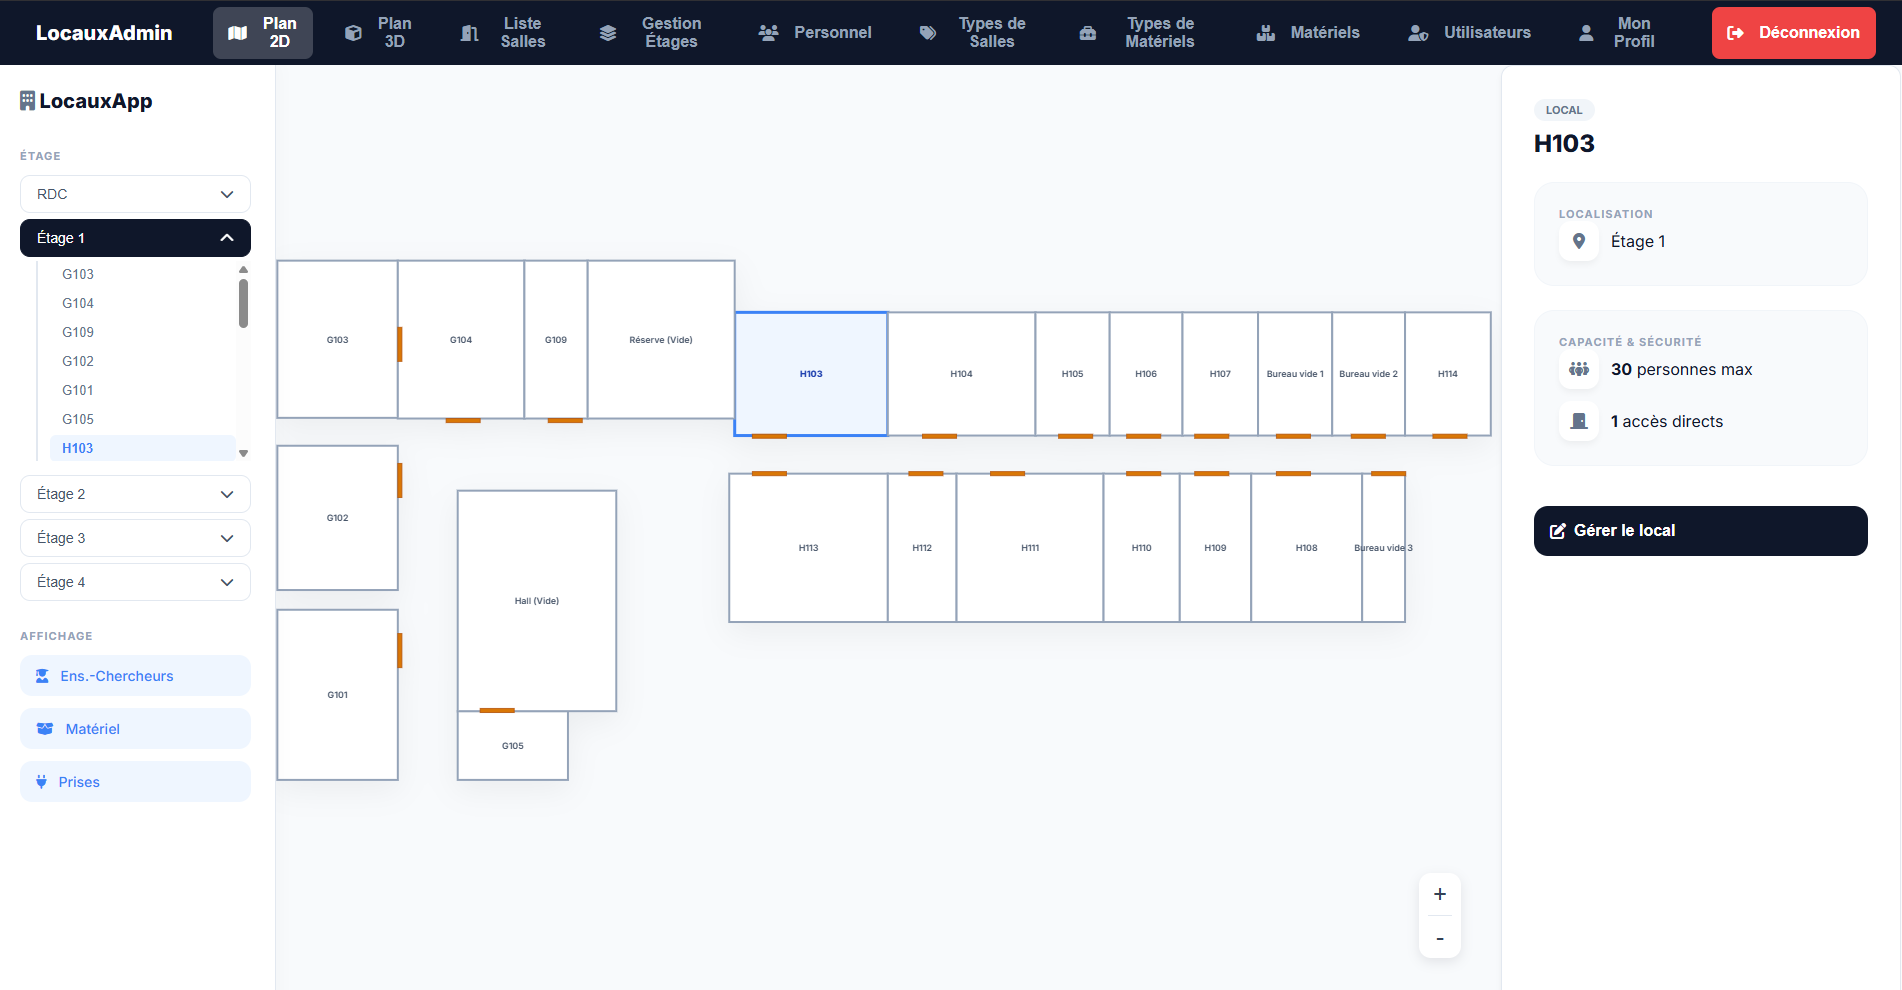
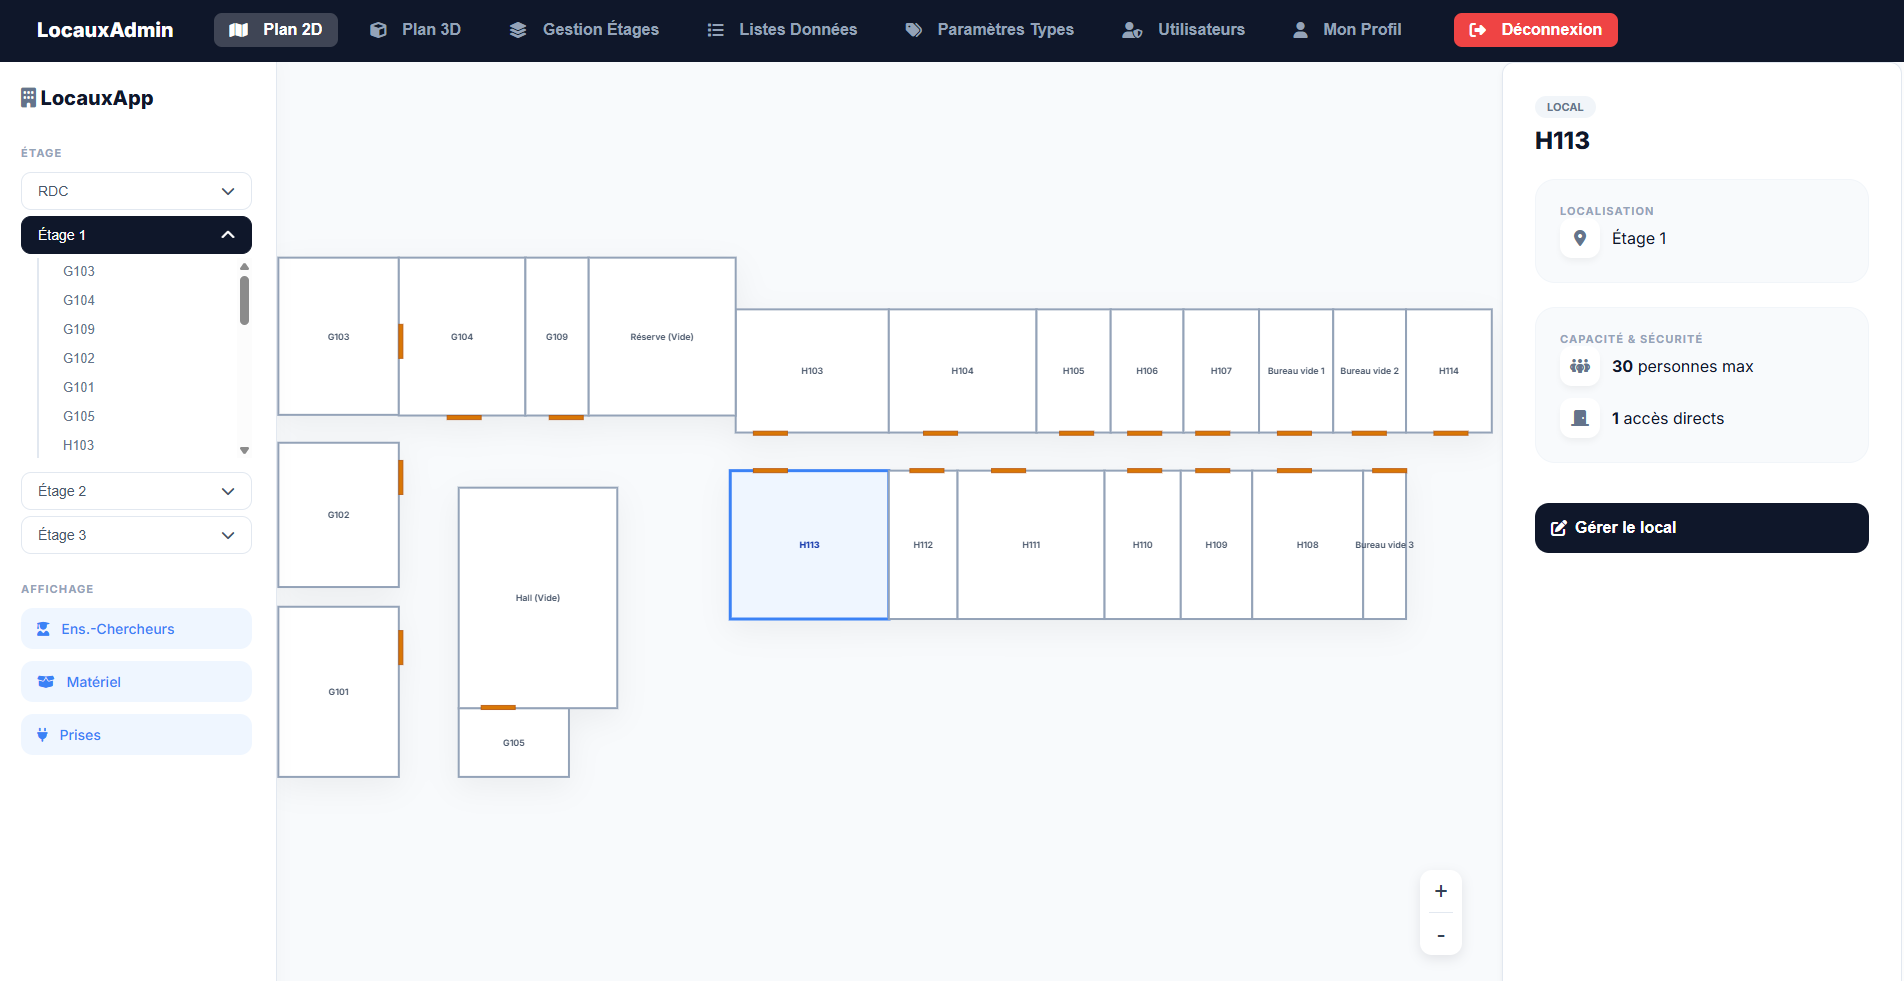
rapport v1 !!!

diff --git a/rapport/sections/04_database.tex b/rapport/sections/04_database.tex
@@ -1,6 +1,6 @@
 \chapter{Conception de la Base de Données}
 
-La conception de la base de données est au cœur de notre application. Pour garantir l'intégrité des données des locaux, du personnel et du matériel, nous avons choisi une modélisation relationnelle sous PostgreSQL. Les tables utilisent des identifiants UUID pour garantir l'unicité et faciliter les fusions/synchronisations ; les coordonnées des salles sont stockées au format JSONB afin de conserver une représentation structurée et extensible des positions et dimensions des zones sur les plans.
+La conception de la base de données est au cœur de notre application. Pour garantir l'intégrité des données des salles, du personnel et du matériel, nous avons choisi une modélisation relationnelle sous PostgreSQL. Les tables utilisent des identifiants UUID pour garantir l'unicité des données ; les coordonnées des salles sont stockées au format JSONB afin de conserver une représentation structurée et extensible des positions et dimensions des zones sur les plans.
 
 \section{Modèle Logique de Données (MLD)}
 Le schéma ci-dessous présente l'organisation des tables et les relations entre elles. Il met l'accent sur les contraintes d'intégrité référentielle (clés primaires et étrangères), qui assurent la cohérence des informations de l'inventaire et de l'occupation des salles.
@@ -16,21 +16,13 @@ Le schéma ci-dessous présente l'organisation des tables et les relations entre
 \begin{itemize}
     \item \textbf{Table \texttt{room}} : Elle modélise les espaces physiques. Chaque salle est caractérisée par sa capacité maximale, son type, son étage et ses coordonnées pour le plan.
     \item \textbf{Table \texttt{staff}} : Elle contient le personnel affecté aux locaux. La relation \texttt{room\_id} permet de savoir où chaque employé est positionné.
-    \item \textbf{Table \texttt{user}} : Cette table stocke les comptes d'accès à l'application. Le champ \texttt{is\_admin} distingue les utilisateurs avec droits d'administration des utilisateurs standards.
-    \item \textbf{Champs de contact utilisateur} : la table \texttt{user} contient également les champs \texttt{email} et \texttt{phone} pour permettre la communication et la récupération d'accès. Ces données personnelles doivent être traitées conformément aux bonnes pratiques de confidentialité (chiffrement en transit, accès restreint, politiques de rétention).
+    \item \textbf{Table \texttt{user}} : Cette table stocke les comptes d'accès à l'application, ainsi que les informations de profil. Le champ \texttt{is\_admin} distingue les utilisateurs avec droits d'administration des utilisateurs standards.
     \item \textbf{Tables de référence} : \texttt{room\_type}, \texttt{equipment\_type} et \texttt{socket\_type} garantissent la cohérence des catégories utilisées dans les salles, le matériel et les prises.
     \item \textbf{Table \texttt{equipment}} : Elle représente l'inventaire matériel d'une salle. Chaque équipement est lié à un type et peut être rattaché à une salle.
     \item \textbf{Table \texttt{socket}} : Elle répertorie les prises présentes dans chaque salle et les associe à un type de connectique.
+    \item \textbf{Table \texttt{door}} : Elle modélise les points d'accès (portes) sur les plans, avec leur étage et leurs coordonnées stockées en \texttt{JSONB}.
 \end{itemize}
+
+Le schéma présenté regroupe donc les tables principales suivantes : \texttt{room}, \texttt{door}, \texttt{staff}, \texttt{equipment}, \texttt{socket}, ainsi que les tables de référence \texttt{room\_type}, \texttt{equipment\_type}, \texttt{socket\_type} et la table \texttt{user} pour la gestion des accès.
 
 La modélisation adopte des règles solides : les types de référence sont supprimés en cascade, tandis que les dépendances sur les salles sont gérées avec \texttt{SET NULL} lorsque cela est pertinent, afin de préserver les données historiques et limiter les pertes involontaires.
-
-\subsection{Remarques et optimisations}
-La base contient également une table \texttt{door} (identifiant, étage et coordonnées JSONB) utilisée pour modéliser des points d'accès sur les plans. Les coordonnées des salles et portes sont stockées en \texttt{JSONB} afin de garder une structure flexible et extensible.
-
-Recommandations pratiques :
-\begin{itemize}
-    \item Ajouter des indexes sur les colonnes souvent filtrées comme \texttt{room.name}, \texttt{staff.room\_id} et \texttt{equipment.room\_id} pour améliorer les performances de lecture.
-    \item Documenter une politique de sauvegarde et de restauration (dumps réguliers du volume \texttt{pgdata}).
-    \item Ne pas laisser de comptes administrateurs avec identifiants par défaut en production ; forcer le changement de mot de passe au premier login.
-\end{itemize}